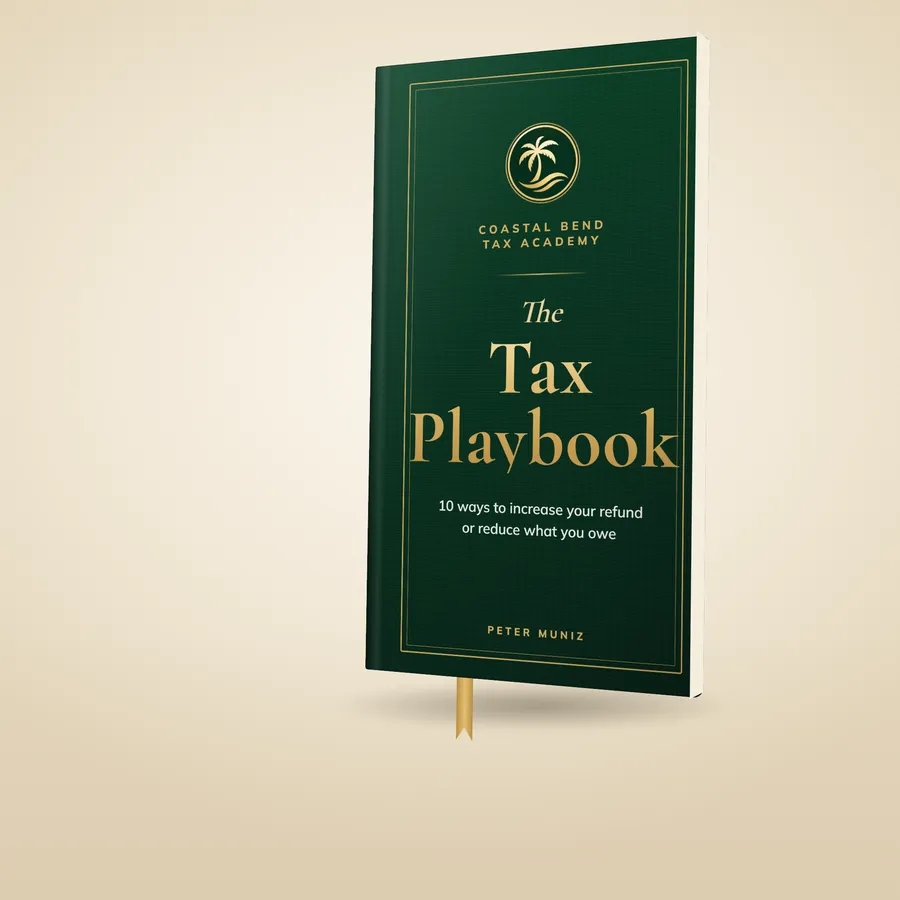
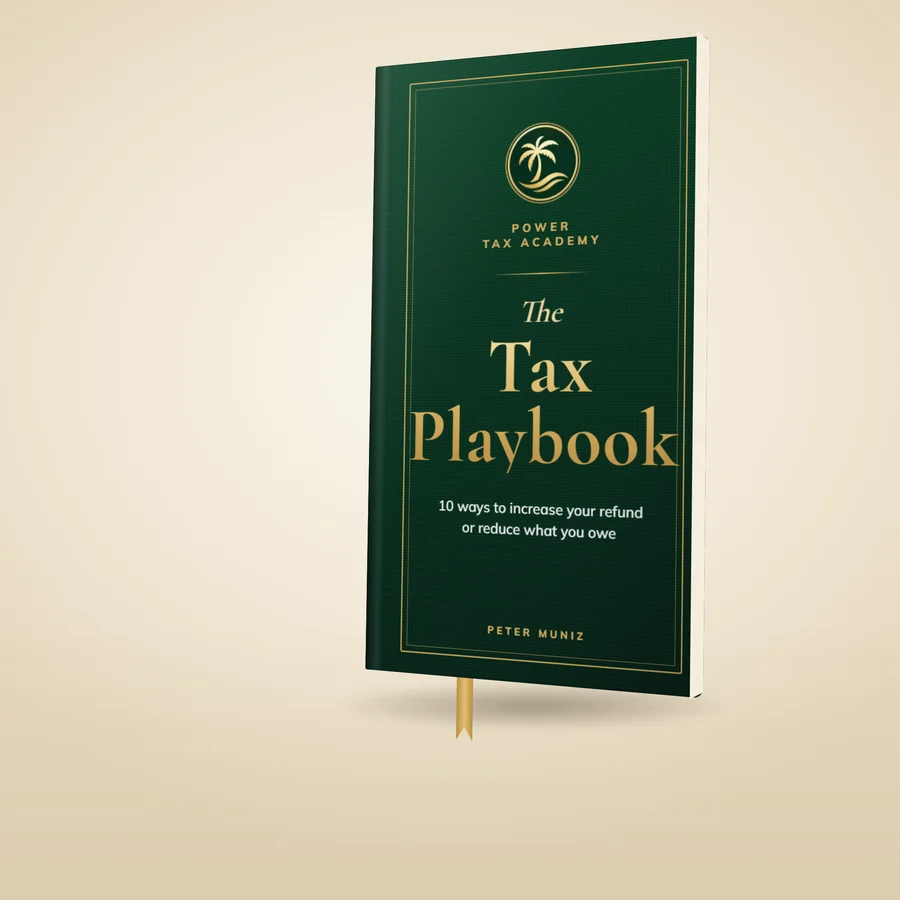
Power Tax Academy final pricing (Pete 11/13): 3 packages with pay-in-full or $150 deposit, $300 upgrades, preparer support ($600/mo subscribe, $90/case)

diff --git a/tax-academy/index.html b/tax-academy/index.html
@@ -3,16 +3,16 @@
 <head>
 <meta charset="UTF-8">
 <meta name="viewport" content="width=device-width, initial-scale=1, viewport-fit=cover">
-<title>Tax Academy &amp; Tax Playbooks | Coastal Bend Tax &amp; Financial</title>
-<meta name="description" content="Learn to do your own taxes the right way with the Tax Playbook, one-on-one training with Peter Muniz, or Tax Academy Platinum. Book a call to get started.">
+<title>Power Tax Academy: Tax Playbooks &amp; Coaching | Coastal Bend Tax &amp; Financial</title>
+<meta name="description" content="Power Tax Academy by Peter Muniz: Tax Playbook $399, Tax Playbook &amp; Me $699, VIP $999. $150 deposit option. Plus monthly and per-case support for tax preparers.">
 <meta name="robots" content="noindex, nofollow">
 <meta name="theme-color" content="#062E1C">
 <link rel="canonical" href="https://jzonkel1.github.io/cbtf-preview/tax-academy/">
 <meta property="og:type" content="website">
 <meta property="og:site_name" content="Coastal Bend Tax &amp; Financial">
 <meta property="og:url" content="https://jzonkel1.github.io/cbtf-preview/tax-academy/">
-<meta property="og:title" content="Tax Academy &amp; Tax Playbooks | Coastal Bend Tax &amp; Financial">
-<meta property="og:description" content="Learn to do your own taxes the right way with the Tax Playbook, one-on-one training with Peter Muniz, or Tax Academy Platinum. Book a call to get started.">
+<meta property="og:title" content="Power Tax Academy: Tax Playbooks &amp; Coaching | Coastal Bend Tax &amp; Financial">
+<meta property="og:description" content="Power Tax Academy by Peter Muniz: Tax Playbook $399, Tax Playbook &amp; Me $699, VIP $999. $150 deposit option. Plus monthly and per-case support for tax preparers.">
 <meta property="og:image" content="https://jzonkel1.github.io/cbtf-preview/img/og.jpg?v=2">
 <meta property="og:image:secure_url" content="https://jzonkel1.github.io/cbtf-preview/img/og.jpg?v=2">
 <meta property="og:image:width" content="1200">
@@ -56,34 +56,50 @@
   <picture><source media="(max-width:760px)" srcset="../img/hero-academy-m.webp"><img src="../img/hero-academy.webp" alt="Laptop, notepad and coffee on a desk" style="object-position:50% 50%" fetchpriority="high"></picture>
   <div class="wrap"><div class="fh-copy">
     <div class="crumbs"><a href="../">Home</a> &nbsp;/&nbsp; Tax Academy</div>
-    <span class="who-does direct">Provided directly</span><br><div class="kick left">Education &amp; Tax Academy</div>
+    <span class="who-does direct">Provided directly</span><br><div class="kick left">Power Tax Academy</div>
     <h1><span class="nw">Learn it.</span> <span class="nw">Apply it.</span> <span class="nw">Teach it.</span></h1>
-    <p class="lede">The Coastal Bend Tax Academy starts with your own taxes. We review your last three years, build a plan for the year ahead, and teach you how to do it yourself.</p>
-    <div class="ctas"><a class="btn btn-gold" href="../contact/"><svg viewBox="0 0 256 256" fill="currentColor"><path d="M208 32h-24v-8a8 8 0 0 0-16 0v8H88v-8a8 8 0 0 0-16 0v8H48a16 16 0 0 0-16 16v160a16 16 0 0 0 16 16h160a16 16 0 0 0 16-16V48a16 16 0 0 0-16-16Zm-38.34 85.66-48 48a8 8 0 0 1-11.32 0l-24-24a8 8 0 0 1 11.32-11.32L116 148.69l42.34-42.35a8 8 0 0 1 11.32 11.32ZM48 80V48h24v8a8 8 0 0 0 16 0v-8h80v8a8 8 0 0 0 16 0v-8h24v32Z"/></svg>Book a Free Consultation</a><a class="btn btn-line-light" href="tel:+13612886140"><svg viewBox="0 0 256 256" fill="currentColor"><path d="M231.88 175.08A56.26 56.26 0 0 1 176 224C96.6 224 32 159.4 32 80a56.26 56.26 0 0 1 48.92-55.88 16 16 0 0 1 16.62 9.52l21.12 47.15a16 16 0 0 1-1.3 15.09l-21.36 25.4a.94.94 0 0 0 0 .14c11.44 23.95 33.2 45.62 57.08 57.06l.14-.06 25-21.27a16.06 16.06 0 0 1 15.23-1.39l47.15 21.13a16 16 0 0 1 9.28 16.31Z"/></svg>Call <span class="nw">361-288-6140</span></a></div>
+    <p class="lede">Learn to handle your taxes the right way, at your own pace or with Pete coaching you. Three packages, starting at $399.</p>
+    <div class="ctas"><a class="btn btn-gold" href="#packages">See the Packages</a><a class="btn btn-line-light" href="../contact/?type=academy"><svg viewBox="0 0 256 256" fill="currentColor"><path d="M208 32h-24v-8a8 8 0 0 0-16 0v8H88v-8a8 8 0 0 0-16 0v8H48a16 16 0 0 0-16 16v160a16 16 0 0 0 16 16h160a16 16 0 0 0 16-16V48a16 16 0 0 0-16-16Zm-38.34 85.66-48 48a8 8 0 0 1-11.32 0l-24-24a8 8 0 0 1 11.32-11.32L116 148.69l42.34-42.35a8 8 0 0 1 11.32 11.32ZM48 80V48h24v8a8 8 0 0 0 16 0v-8h80v8a8 8 0 0 0 16 0v-8h24v32Z"/></svg>Book an Academy Call</a></div>
     <div class="trust"><span><svg viewBox="0 0 256 256" fill="currentColor"><path d="M128 24a104 104 0 1 0 104 104A104.11 104.11 0 0 0 128 24Zm45.66 85.66-56 56a8 8 0 0 1-11.32 0l-24-24a8 8 0 0 1 11.32-11.32L112 148.69l50.34-50.35a8 8 0 0 1 11.32 11.32Z"/></svg>20+ years in finance</span><span><svg viewBox="0 0 256 256" fill="currentColor"><path d="M128 24a104 104 0 1 0 104 104A104.11 104.11 0 0 0 128 24Zm45.66 85.66-56 56a8 8 0 0 1-11.32 0l-24-24a8 8 0 0 1 11.32-11.32L112 148.69l50.34-50.35a8 8 0 0 1 11.32 11.32Z"/></svg>Open 7 days</span><span><svg viewBox="0 0 256 256" fill="currentColor"><path d="M128 24a104 104 0 1 0 104 104A104.11 104.11 0 0 0 128 24Zm45.66 85.66-56 56a8 8 0 0 1-11.32 0l-24-24a8 8 0 0 1 11.32-11.32L112 148.69l50.34-50.35a8 8 0 0 1 11.32 11.32Z"/></svg>Se habla espa&ntilde;ol</span></div>
   </div></div>
 </section><section class="tstrip"><div class="wrap"><ul><li><svg viewBox="0 0 256 256" fill="currentColor" aria-hidden="true"><path fill="currentColor" d="M225.86 102.82c-3.77-3.94-7.67-8-9.14-11.57c-1.36-3.27-1.44-8.69-1.52-13.94c-.15-9.76-.31-20.82-8-28.51s-18.75-7.85-28.51-8c-5.25-.08-10.67-.16-13.94-1.52c-3.56-1.47-7.63-5.37-11.57-9.14C146.28 23.51 138.44 16 128 16s-18.27 7.51-25.18 14.14c-3.94 3.77-8 7.67-11.57 9.14c-3.25 1.36-8.69 1.44-13.94 1.52c-9.76.15-20.82.31-28.51 8s-7.8 18.75-8 28.51c-.08 5.25-.16 10.67-1.52 13.94c-1.47 3.56-5.37 7.63-9.14 11.57C23.51 109.72 16 117.56 16 128s7.51 18.27 14.14 25.18c3.77 3.94 7.67 8 9.14 11.57c1.36 3.27 1.44 8.69 1.52 13.94c.15 9.76.31 20.82 8 28.51s18.75 7.85 28.51 8c5.25.08 10.67.16 13.94 1.52c3.56 1.47 7.63 5.37 11.57 9.14c6.9 6.63 14.74 14.14 25.18 14.14s18.27-7.51 25.18-14.14c3.94-3.77 8-7.67 11.57-9.14c3.27-1.36 8.69-1.44 13.94-1.52c9.76-.15 20.82-.31 28.51-8s7.85-18.75 8-28.51c.08-5.25.16-10.67 1.52-13.94c1.47-3.56 5.37-7.63 9.14-11.57c6.63-6.9 14.14-14.74 14.14-25.18s-7.51-18.27-14.14-25.18m-52.2 6.84l-56 56a8 8 0 0 1-11.32 0l-24-24a8 8 0 0 1 11.32-11.32L112 148.69l50.34-50.35a8 8 0 0 1 11.32 11.32"/></svg><div>20+ years in finance<span>City, Port &amp; private sector</span></div></li><li><svg viewBox="0 0 256 256" fill="currentColor" aria-hidden="true"><path fill="currentColor" d="M176 207.24a119 119 0 0 0 16-7.73V240a8 8 0 0 1-16 0Zm11.76-88.43l-56-29.87a8 8 0 0 0-7.52 14.12L171 128l17-9.06Zm64-29.87l-120-64a8 8 0 0 0-7.52 0l-120 64a8 8 0 0 0 0 14.12L32 117.87v48.42a15.9 15.9 0 0 0 4.06 10.65C49.16 191.53 78.51 216 128 216a130 130 0 0 0 48-8.76v-76.57l-5-2.67l-43 22.93L43.83 106L25 96l103-54.93L231 96l-18.78 10h-.06L188 118.94a8 8 0 0 1 4 6.93v73.64a115.6 115.6 0 0 0 27.94-22.57a15.9 15.9 0 0 0 4.06-10.65v-48.42l27.76-14.81a8 8 0 0 0 0-14.12"/></svg><div>Master&rsquo;s in Accounting<span>Texas A&amp;M&ndash;Corpus Christi</span></div></li><li><svg viewBox="0 0 256 256" fill="currentColor" aria-hidden="true"><path fill="currentColor" d="M128 24a104 104 0 1 0 104 104A104.11 104.11 0 0 0 128 24m56 112h-56a8 8 0 0 1-8-8V72a8 8 0 0 1 16 0v48h48a8 8 0 0 1 0 16"/></svg><div>Open 7 days<span>10 AM to 7 PM</span></div></li><li><svg viewBox="0 0 256 256" fill="currentColor" aria-hidden="true"><path fill="currentColor" d="M160 129.89L175.06 160h-30.12l6.36-12.7ZM224 48v160a16 16 0 0 1-16 16H48a16 16 0 0 1-16-16V48a16 16 0 0 1 16-16h160a16 16 0 0 1 16 16m-16.84 140.42l-40-80a8 8 0 0 0-14.32 0l-13.18 26.38a62.3 62.3 0 0 1-23.61-10A79.6 79.6 0 0 0 135.6 80H152a8 8 0 0 0 0-16h-40v-8a8 8 0 0 0-16 0v8H56a8 8 0 0 0 0 16h63.48a63.73 63.73 0 0 1-15.3 34.05a66 66 0 0 1-9-13.61a8 8 0 0 0-14.32 7.12a81.8 81.8 0 0 0 11.4 17.15A63.6 63.6 0 0 1 56 136a8 8 0 0 0 0 16a79.56 79.56 0 0 0 48.11-16.13a78.3 78.3 0 0 0 28.18 13.66l-19.45 38.89a8 8 0 0 0 14.32 7.16l9.78-19.58h46.12l9.78 19.58a8 8 0 1 0 14.32-7.16"/></svg><div>Se habla espa&ntilde;ol<span>In person, phone or online</span></div></li></ul></div></section>
-<section><div class="wrap pb">
-  <div class="pb-photo"><picture><source media="(max-width:760px)" srcset="../img/playbook-cover-m.webp"><img src="../img/playbook-cover.webp" width="1000" height="1250" alt="The Tax Playbook by Peter Muniz, Coastal Bend Tax Academy" loading="lazy" decoding="async"></picture><span class="pb-tag">Find your financial purpose</span></div>
+<section id="packages"><div class="wrap">
+  <div class="sec-head c"><div class="kick">Power Tax Academy</div><h2>Pick how much help you want.</h2>
+    <p class="lead">Pay in full, or hold your spot with a $150 deposit that applies toward any package.</p></div>
+  <div class="pkg-grid"><article class="pkg" id="pkg-playbook"><div class="ic"><svg viewBox="0 0 256 256" fill="currentColor"><path d="M224 48h-64a40 40 0 0 0-32 16 40 40 0 0 0-32-16H32a16 16 0 0 0-16 16v128a16 16 0 0 0 16 16h64a24 24 0 0 1 24 24 8 8 0 0 0 16 0 24 24 0 0 1 24-24h64a16 16 0 0 0 16-16V64a16 16 0 0 0-16-16Zm0 144h-64a39.81 39.81 0 0 0-24 8V88a24 24 0 0 1 24-24h64Z"/></svg></div><h3>Tax Playbook</h3><div class="pkg-price">$399</div><ul class="pkg-list"><li><svg viewBox="0 0 256 256" fill="currentColor"><path d="M128 24a104 104 0 1 0 104 104A104.11 104.11 0 0 0 128 24Zm45.66 85.66-56 56a8 8 0 0 1-11.32 0l-24-24a8 8 0 0 1 11.32-11.32L112 148.69l50.34-50.35a8 8 0 0 1 11.32 11.32Z"/></svg>Book and training materials</li><li><svg viewBox="0 0 256 256" fill="currentColor"><path d="M128 24a104 104 0 1 0 104 104A104.11 104.11 0 0 0 128 24Zm45.66 85.66-56 56a8 8 0 0 1-11.32 0l-24-24a8 8 0 0 1 11.32-11.32L112 148.69l50.34-50.35a8 8 0 0 1 11.32 11.32Z"/></svg>Learn at your own pace</li><li class="no">No personal coaching</li></ul><div class="buy"><div class="opts" role="radiogroup"><label><input type="radio" name="oTaxPlaybook" value="0" checked data-name="Tax Playbook" data-amt="399.00" data-href="https://www.paypal.com/cgi-bin/webscr?business=petermuniz%40outlook.com&amp;item_name=Tax+Playbook&amp;currency_code=USD&amp;no_shipping=1&amp;return=https%3A%2F%2Fjzonkel1.github.io%2Fcbtf-preview%2Fthanks%2F%3Fpaid%3D1&amp;cmd=_xclick&amp;amount=399.00"><span><b>Pay in full</b></span><em>$399</em></label><label><input type="radio" name="oTaxPlaybook" value="1" data-name="Tax Playbook - $150 deposit" data-amt="150.00" data-href="https://www.paypal.com/cgi-bin/webscr?business=petermuniz%40outlook.com&amp;item_name=Tax+Playbook+-+%24150+deposit&amp;currency_code=USD&amp;no_shipping=1&amp;return=https%3A%2F%2Fjzonkel1.github.io%2Fcbtf-preview%2Fthanks%2F%3Fpaid%3D1&amp;cmd=_xclick&amp;amount=150.00"><span><b>$150 deposit</b><small>Applies toward your package. $249 remaining.</small></span><em>$150</em></label></div><div class="pp" data-name="Tax Playbook" data-amt="399.00" data-ok="../thanks/?paid=1"></div><a class="btn btn-gold pp-fallback" href="https://www.paypal.com/cgi-bin/webscr?business=petermuniz%40outlook.com&amp;item_name=Tax+Playbook&amp;currency_code=USD&amp;no_shipping=1&amp;return=https%3A%2F%2Fjzonkel1.github.io%2Fcbtf-preview%2Fthanks%2F%3Fpaid%3D1&amp;cmd=_xclick&amp;amount=399.00" rel="nofollow">Pay with PayPal</a><small class="pp-note">Secure checkout with PayPal or a debit/credit card.</small></div></article><article class="pkg" id="pkg-playbook-me"><div class="ic"><svg viewBox="0 0 256 256" fill="currentColor"><path d="M230.92 212c-15.23-26.33-38.7-45.21-66.09-54.16a72 72 0 1 0-73.66 0c-27.39 8.94-50.86 27.82-66.09 54.16a8 8 0 1 0 13.85 8c18.84-32.56 52.14-52 89.07-52s70.23 19.44 89.07 52a8 8 0 1 0 13.85-8Z"/></svg></div><h3>Tax Playbook &amp; Me</h3><div class="pkg-price">$699</div><ul class="pkg-list"><li><svg viewBox="0 0 256 256" fill="currentColor"><path d="M128 24a104 104 0 1 0 104 104A104.11 104.11 0 0 0 128 24Zm45.66 85.66-56 56a8 8 0 0 1-11.32 0l-24-24a8 8 0 0 1 11.32-11.32L112 148.69l50.34-50.35a8 8 0 0 1 11.32 11.32Z"/></svg>Everything in the Tax Playbook</li><li><svg viewBox="0 0 256 256" fill="currentColor"><path d="M128 24a104 104 0 1 0 104 104A104.11 104.11 0 0 0 128 24Zm45.66 85.66-56 56a8 8 0 0 1-11.32 0l-24-24a8 8 0 0 1 11.32-11.32L112 148.69l50.34-50.35a8 8 0 0 1 11.32 11.32Z"/></svg>Limited personal coaching</li><li class="no">No priority scheduling</li></ul><div class="buy"><div class="opts" role="radiogroup"><label><input type="radio" name="oTaxPlaybookampMe" value="0" checked data-name="Tax Playbook &amp; Me" data-amt="699.00" data-href="https://www.paypal.com/cgi-bin/webscr?business=petermuniz%40outlook.com&amp;item_name=Tax+Playbook+%26+Me&amp;currency_code=USD&amp;no_shipping=1&amp;return=https%3A%2F%2Fjzonkel1.github.io%2Fcbtf-preview%2Fthanks%2F%3Fpaid%3D1&amp;cmd=_xclick&amp;amount=699.00"><span><b>Pay in full</b></span><em>$699</em></label><label><input type="radio" name="oTaxPlaybookampMe" value="1" data-name="Tax Playbook &amp; Me - $150 deposit" data-amt="150.00" data-href="https://www.paypal.com/cgi-bin/webscr?business=petermuniz%40outlook.com&amp;item_name=Tax+Playbook+%26+Me+-+%24150+deposit&amp;currency_code=USD&amp;no_shipping=1&amp;return=https%3A%2F%2Fjzonkel1.github.io%2Fcbtf-preview%2Fthanks%2F%3Fpaid%3D1&amp;cmd=_xclick&amp;amount=150.00"><span><b>$150 deposit</b><small>Applies toward your package. $549 remaining.</small></span><em>$150</em></label></div><div class="pp" data-name="Tax Playbook &amp; Me" data-amt="699.00" data-ok="../thanks/?paid=1"></div><a class="btn btn-gold pp-fallback" href="https://www.paypal.com/cgi-bin/webscr?business=petermuniz%40outlook.com&amp;item_name=Tax+Playbook+%26+Me&amp;currency_code=USD&amp;no_shipping=1&amp;return=https%3A%2F%2Fjzonkel1.github.io%2Fcbtf-preview%2Fthanks%2F%3Fpaid%3D1&amp;cmd=_xclick&amp;amount=699.00" rel="nofollow">Pay with PayPal</a><small class="pp-note">Secure checkout with PayPal or a debit/credit card.</small></div></article><article class="pkg feat" id="pkg-vip"><span class="pkg-flag">Most coaching</span><div class="ic"><svg viewBox="0 0 256 256" fill="currentColor"><path d="M239.2 97.29a16 16 0 0 0-13.81-11L166 81.17l-23.28-55.36a15.95 15.95 0 0 0-29.44 0L90.07 81.17l-59.46 5.15a16 16 0 0 0-9.11 28.06l45.11 39.42-13.52 58.54a16 16 0 0 0 23.84 17.34l51-31 51.11 31a16 16 0 0 0 23.84-17.34l-13.51-58.6 45.1-39.36a16 16 0 0 0 4.73-17.09Z"/></svg></div><h3>Power Tax Academy VIP</h3><div class="pkg-price">$999</div><ul class="pkg-list"><li><svg viewBox="0 0 256 256" fill="currentColor"><path d="M128 24a104 104 0 1 0 104 104A104.11 104.11 0 0 0 128 24Zm45.66 85.66-56 56a8 8 0 0 1-11.32 0l-24-24a8 8 0 0 1 11.32-11.32L112 148.69l50.34-50.35a8 8 0 0 1 11.32 11.32Z"/></svg>Everything in the Tax Playbook and Tax Playbook &amp; Me</li><li><svg viewBox="0 0 256 256" fill="currentColor"><path d="M128 24a104 104 0 1 0 104 104A104.11 104.11 0 0 0 128 24Zm45.66 85.66-56 56a8 8 0 0 1-11.32 0l-24-24a8 8 0 0 1 11.32-11.32L112 148.69l50.34-50.35a8 8 0 0 1 11.32 11.32Z"/></svg>Unlimited scheduled coaching for 12 months</li><li><svg viewBox="0 0 256 256" fill="currentColor"><path d="M128 24a104 104 0 1 0 104 104A104.11 104.11 0 0 0 128 24Zm45.66 85.66-56 56a8 8 0 0 1-11.32 0l-24-24a8 8 0 0 1 11.32-11.32L112 148.69l50.34-50.35a8 8 0 0 1 11.32 11.32Z"/></svg>Priority scheduling and personal guidance</li></ul><div class="buy"><div class="opts" role="radiogroup"><label><input type="radio" name="oPowerTaxAcademyVIP" value="0" checked data-name="Power Tax Academy VIP" data-amt="999.00" data-href="https://www.paypal.com/cgi-bin/webscr?business=petermuniz%40outlook.com&amp;item_name=Power+Tax+Academy+VIP&amp;currency_code=USD&amp;no_shipping=1&amp;return=https%3A%2F%2Fjzonkel1.github.io%2Fcbtf-preview%2Fthanks%2F%3Fpaid%3D1&amp;cmd=_xclick&amp;amount=999.00"><span><b>Pay in full</b></span><em>$999</em></label><label><input type="radio" name="oPowerTaxAcademyVIP" value="1" data-name="Power Tax Academy VIP - $150 deposit" data-amt="150.00" data-href="https://www.paypal.com/cgi-bin/webscr?business=petermuniz%40outlook.com&amp;item_name=Power+Tax+Academy+VIP+-+%24150+deposit&amp;currency_code=USD&amp;no_shipping=1&amp;return=https%3A%2F%2Fjzonkel1.github.io%2Fcbtf-preview%2Fthanks%2F%3Fpaid%3D1&amp;cmd=_xclick&amp;amount=150.00"><span><b>$150 deposit</b><small>Applies toward your package. $849 remaining.</small></span><em>$150</em></label></div><div class="pp" data-name="Power Tax Academy VIP" data-amt="999.00" data-ok="../thanks/?paid=1"></div><a class="btn btn-gold pp-fallback" href="https://www.paypal.com/cgi-bin/webscr?business=petermuniz%40outlook.com&amp;item_name=Power+Tax+Academy+VIP&amp;currency_code=USD&amp;no_shipping=1&amp;return=https%3A%2F%2Fjzonkel1.github.io%2Fcbtf-preview%2Fthanks%2F%3Fpaid%3D1&amp;cmd=_xclick&amp;amount=999.00" rel="nofollow">Pay with PayPal</a><small class="pp-note">Secure checkout with PayPal or a debit/credit card.</small></div></article></div>
+</div></section>
+
+<section class="alt"><div class="wrap pb">
+  <div class="pb-photo"><picture><source media="(max-width:760px)" srcset="../img/playbook-cover-m.webp"><img src="../img/playbook-cover.webp" width="1000" height="1250" alt="The Tax Playbook by Peter Muniz, Power Tax Academy" loading="lazy" decoding="async"></picture><span class="pb-tag">Find your financial purpose</span></div>
   <div class="pb-copy">
-    <div class="kick left">The programs</div>
-    <h2>Pick how much help you want.</h2>
-    <div class="pb-list">
-      <div class="pb-item has-buy"><div class="ic"><svg viewBox="0 0 256 256" fill="currentColor"><path d="M224 48h-64a40 40 0 0 0-32 16 40 40 0 0 0-32-16H32a16 16 0 0 0-16 16v128a16 16 0 0 0 16 16h64a24 24 0 0 1 24 24 8 8 0 0 0 16 0 24 24 0 0 1 24-24h64a16 16 0 0 0 16-16V64a16 16 0 0 0-16-16Zm0 144h-64a39.81 39.81 0 0 0-24 8V88a24 24 0 0 1 24-24h64Z"/></svg></div><div><b>Tax Playbook</b><span>Your personalized playbook with step-by-step instructions, real strategies and worksheets.</span><div class="buy"><span class="price">$1,850</span><div class="pp" data-name="Tax Playbook" data-amt="1850.00" data-ok="../thanks/?paid=1"></div><a class="btn btn-gold pp-fallback" href="https://www.paypal.com/cgi-bin/webscr?cmd=_xclick&amp;business=petermuniz%40outlook.com&amp;item_name=Tax+Playbook&amp;amount=1850.00&amp;currency_code=USD&amp;no_shipping=1&amp;return=https%3A%2F%2Fjzonkel1.github.io%2Fcbtf-preview%2Fthanks%2F%3Fpaid%3D1" rel="nofollow">Buy with PayPal</a><small class="pp-note">Secure checkout with PayPal or a debit/credit card.</small></div></div></div>
-      <div class="pb-item has-buy"><div class="ic"><svg viewBox="0 0 256 256" fill="currentColor"><path d="M230.92 212c-15.23-26.33-38.7-45.21-66.09-54.16a72 72 0 1 0-73.66 0c-27.39 8.94-50.86 27.82-66.09 54.16a8 8 0 1 0 13.85 8c18.84-32.56 52.14-52 89.07-52s70.23 19.44 89.07 52a8 8 0 1 0 13.85-8Z"/></svg></div><div><b>Tax Playbook &amp; Me</b><span>Everything in the playbook, plus one-on-one training with Pete and ongoing support.</span><div class="buy"><span class="price">$2,750</span><div class="pp" data-name="Tax Playbook &amp; Me" data-amt="2750.00" data-ok="../thanks/?paid=1"></div><a class="btn btn-gold pp-fallback" href="https://www.paypal.com/cgi-bin/webscr?cmd=_xclick&amp;business=petermuniz%40outlook.com&amp;item_name=Tax+Playbook+%26+Me&amp;amount=2750.00&amp;currency_code=USD&amp;no_shipping=1&amp;return=https%3A%2F%2Fjzonkel1.github.io%2Fcbtf-preview%2Fthanks%2F%3Fpaid%3D1" rel="nofollow">Buy with PayPal</a><small class="pp-note">Secure checkout with PayPal or a debit/credit card.</small></div></div></div>
-      <div class="pb-item"><div class="ic"><svg viewBox="0 0 256 256" fill="currentColor"><path d="M239.2 97.29a16 16 0 0 0-13.81-11L166 81.17l-23.28-55.36a15.95 15.95 0 0 0-29.44 0L90.07 81.17l-59.46 5.15a16 16 0 0 0-9.11 28.06l45.11 39.42-13.52 58.54a16 16 0 0 0 23.84 17.34l51-31 51.11 31a16 16 0 0 0 23.84-17.34l-13.51-58.6 45.1-39.36a16 16 0 0 0 4.73-17.09Z"/></svg></div><div><b>Tax Academy Platinum</b><span>The full program, with deeper training and support. Ask Pete for details.</span></div></div>
-    </div>
-    <a class="btn btn-green" href="../contact/?type=academy"><svg viewBox="0 0 256 256" fill="currentColor"><path d="M208 32h-24v-8a8 8 0 0 0-16 0v8H88v-8a8 8 0 0 0-16 0v8H48a16 16 0 0 0-16 16v160a16 16 0 0 0 16 16h160a16 16 0 0 0 16-16V48a16 16 0 0 0-16-16Zm-38.34 85.66-48 48a8 8 0 0 1-11.32 0l-24-24a8 8 0 0 1 11.32-11.32L116 148.69l42.34-42.35a8 8 0 0 1 11.32 11.32ZM48 80V48h24v8a8 8 0 0 0 16 0v-8h80v8a8 8 0 0 0 16 0v-8h24v32Z"/></svg>Book an Academy Call</a>
+    <div class="kick left">Upgrades</div>
+    <h2>Already enrolled? Move up.</h2>
+    <p class="lead">Want more coaching? Upgrade any time and pay only the difference: $300 for each step up.</p>
+    <div class="pkg upg"><div class="buy"><div class="opts" role="radiogroup"><label><input type="radio" name="oUpgradeTaxPlaybooktoTaxP" value="0" checked data-name="Upgrade: Tax Playbook to Tax Playbook &amp; Me" data-amt="300.00" data-href="https://www.paypal.com/cgi-bin/webscr?business=petermuniz%40outlook.com&amp;item_name=Upgrade%3A+Tax+Playbook+to+Tax+Playbook+%26+Me&amp;currency_code=USD&amp;no_shipping=1&amp;return=https%3A%2F%2Fjzonkel1.github.io%2Fcbtf-preview%2Fthanks%2F%3Fpaid%3D1&amp;cmd=_xclick&amp;amount=300.00"><span><b>Tax Playbook to Tax Playbook &amp; Me</b><small>$399 to $699</small></span><em>$300</em></label><label><input type="radio" name="oUpgradeTaxPlaybooktoTaxP" value="1" data-name="Upgrade: Tax Playbook &amp; Me to Power Tax Academy VIP" data-amt="300.00" data-href="https://www.paypal.com/cgi-bin/webscr?business=petermuniz%40outlook.com&amp;item_name=Upgrade%3A+Tax+Playbook+%26+Me+to+Power+Tax+Academy+VIP&amp;currency_code=USD&amp;no_shipping=1&amp;return=https%3A%2F%2Fjzonkel1.github.io%2Fcbtf-preview%2Fthanks%2F%3Fpaid%3D1&amp;cmd=_xclick&amp;amount=300.00"><span><b>Tax Playbook &amp; Me to Power Tax Academy VIP</b><small>$699 to $999</small></span><em>$300</em></label></div><div class="pp" data-name="Upgrade: Tax Playbook to Tax Playbook &amp; Me" data-amt="300.00" data-ok="../thanks/?paid=1"></div><a class="btn btn-gold pp-fallback" href="https://www.paypal.com/cgi-bin/webscr?business=petermuniz%40outlook.com&amp;item_name=Upgrade%3A+Tax+Playbook+to+Tax+Playbook+%26+Me&amp;currency_code=USD&amp;no_shipping=1&amp;return=https%3A%2F%2Fjzonkel1.github.io%2Fcbtf-preview%2Fthanks%2F%3Fpaid%3D1&amp;cmd=_xclick&amp;amount=300.00" rel="nofollow">Pay with PayPal</a><small class="pp-note">Secure checkout with PayPal or a debit/credit card.</small></div></div>
+  </div>
+</div></section>
+
+<section id="support"><div class="wrap">
+  <div class="sec-head c"><div class="kick">For tax preparers</div><h2>Support when a return gets tricky.</h2>
+    <p class="lead">Are you a tax preparer? Pete helps with your customers&rsquo; tax returns, month to month or one case at a time.</p></div>
+  <div class="pkg-grid two">
+    <article class="pkg"><div class="ic"><svg viewBox="0 0 256 256" fill="currentColor" aria-hidden="true"><path fill="currentColor" d="M152 112a8 8 0 0 1-8 8h-32a8 8 0 0 1 0-16h32a8 8 0 0 1 8 8m80-40v128a16 16 0 0 1-16 16H40a16 16 0 0 1-16-16V72a16 16 0 0 1 16-16h40v-8a24 24 0 0 1 24-24h48a24 24 0 0 1 24 24v8h40a16 16 0 0 1 16 16M96 56h64v-8a8 8 0 0 0-8-8h-48a8 8 0 0 0-8 8Zm120 57.61V72H40v41.61A184 184 0 0 0 128 136a184 184 0 0 0 88-22.39"/></svg></div><h3>Monthly Technical Support</h3><div class="pkg-price">$600<small>/month</small></div>
+      <ul class="pkg-list"><li><svg viewBox="0 0 256 256" fill="currentColor"><path d="M128 24a104 104 0 1 0 104 104A104.11 104.11 0 0 0 128 24Zm45.66 85.66-56 56a8 8 0 0 1-11.32 0l-24-24a8 8 0 0 1 11.32-11.32L112 148.69l50.34-50.35a8 8 0 0 1 11.32 11.32Z"/></svg>Pete helps with your customers&rsquo; tax returns</li><li><svg viewBox="0 0 256 256" fill="currentColor"><path d="M128 24a104 104 0 1 0 104 104A104.11 104.11 0 0 0 128 24Zm45.66 85.66-56 56a8 8 0 0 1-11.32 0l-24-24a8 8 0 0 1 11.32-11.32L112 148.69l50.34-50.35a8 8 0 0 1 11.32 11.32Z"/></svg>Ongoing monthly assistance</li></ul>
+      <div class="buy"><a class="btn btn-gold" href="https://www.paypal.com/cgi-bin/webscr?business=petermuniz%40outlook.com&amp;item_name=Monthly+Technical+Support&amp;currency_code=USD&amp;no_shipping=1&amp;return=https%3A%2F%2Fjzonkel1.github.io%2Fcbtf-preview%2Fthanks%2F%3Fpaid%3D1&amp;cmd=_xclick-subscriptions&amp;a3=600.00&amp;p3=1&amp;t3=M&amp;src=1" rel="nofollow">Subscribe with PayPal</a><small class="pp-note">Billed $600 a month through PayPal.</small></div></article>
+    <article class="pkg"><div class="ic"><svg viewBox="0 0 256 256" fill="currentColor" aria-hidden="true"><path fill="currentColor" d="M216 40H40a16 16 0 0 0-16 16v152a8 8 0 0 0 11.58 7.15L64 200.94l28.42 14.21a8 8 0 0 0 7.16 0L128 200.94l28.42 14.21a8 8 0 0 0 7.16 0L192 200.94l28.42 14.21A8 8 0 0 0 232 208V56a16 16 0 0 0-16-16m-40 104H80a8 8 0 0 1 0-16h96a8 8 0 0 1 0 16m0-32H80a8 8 0 0 1 0-16h96a8 8 0 0 1 0 16"/></svg></div><h3>Individual Case Support</h3><div class="pkg-price">$90<small>/case</small></div>
+      <ul class="pkg-list"><li><svg viewBox="0 0 256 256" fill="currentColor"><path d="M128 24a104 104 0 1 0 104 104A104.11 104.11 0 0 0 128 24Zm45.66 85.66-56 56a8 8 0 0 1-11.32 0l-24-24a8 8 0 0 1 11.32-11.32L112 148.69l50.34-50.35a8 8 0 0 1 11.32 11.32Z"/></svg>Help with one customer&rsquo;s tax return</li><li><svg viewBox="0 0 256 256" fill="currentColor"><path d="M128 24a104 104 0 1 0 104 104A104.11 104.11 0 0 0 128 24Zm45.66 85.66-56 56a8 8 0 0 1-11.32 0l-24-24a8 8 0 0 1 11.32-11.32L112 148.69l50.34-50.35a8 8 0 0 1 11.32 11.32Z"/></svg>No monthly commitment</li></ul>
+      <div class="buy"><div class="pp" data-name="Individual Case Support (1 case)" data-amt="90.00" data-ok="../thanks/?paid=1"></div><a class="btn btn-gold pp-fallback" href="https://www.paypal.com/cgi-bin/webscr?business=petermuniz%40outlook.com&amp;item_name=Individual+Case+Support+%281+case%29&amp;currency_code=USD&amp;no_shipping=1&amp;return=https%3A%2F%2Fjzonkel1.github.io%2Fcbtf-preview%2Fthanks%2F%3Fpaid%3D1&amp;cmd=_xclick&amp;amount=90.00" rel="nofollow">Pay with PayPal</a><small class="pp-note">Secure checkout with PayPal or a debit/credit card.</small></div></article>
   </div>
 </div></section>
 
 <section class="alt"><div class="wrap">
-  <div class="sec-head c"><div class="kick">How it works</div><h2>Your taxes become the lesson.</h2></div>
+  <div class="sec-head c"><div class="kick">How it works</div><h2>Three simple steps.</h2></div>
   <div class="steps">
-    <div class="step"><h3>Review</h3><p>We pull your IRS records and look at your last three years of returns.</p></div>
-    <div class="step"><h3>Plan</h3><p>You get the specific ways to do better next year, written for your situation.</p></div>
-    <div class="step"><h3>Learn</h3><p>Do it yourself with the playbook, or work through it with Pete one on one.</p></div>
+    <div class="step"><h3>Choose</h3><p>Pick the package that fits how much help you want.</p></div>
+    <div class="step"><h3>Pay</h3><p>Pay in full, or start with a $150 deposit that applies toward your package.</p></div>
+    <div class="step"><h3>Learn</h3><p>Work through the playbook at your own pace, with coaching from Pete if your package includes it.</p></div>
   </div>
+  <p class="c" style="margin-top:34px">Questions first? <a href="../contact/?type=academy"><b>Book an academy call</b></a> or call <a href="tel:+13612886140"><b><span class="nw">361-288-6140</span></b></a>.</p>
 </div></section>
 
 <section><div class="wrap">
@@ -227,14 +243,18 @@ document.querySelectorAll('.qw').forEach(f => {
 
 (() => {
   const els = [...document.querySelectorAll('.pp[data-amt]')]; if (!els.length) return;
+  document.querySelectorAll('.opts input').forEach(r => r.addEventListener('change', () => {
+    const box = r.closest('.buy'); box.querySelector('.pp-fallback').href = r.dataset.href;
+  }));
+  const pick = el => { const r = el.closest('.buy').querySelector('.opts input:checked'); return r ? r.dataset : el.dataset; };
   const load = () => {
     const s = document.createElement('script');
     s.src = 'https://www.paypal.com/sdk/js?client-id=BAA6P3uvcIh2B1DP-7oNN74NZr8NTycCrMdu5L9TuTEQL7scwtlZfbx8uaRy5oNspanAAQS7pkOBjTNnbg&currency=USD&intent=capture&components=buttons&disable-funding=paylater,credit';
     s.onload = () => els.forEach(el => {
       const box = el.closest('.buy');
       const b = paypal.Buttons({
-        style: {layout: 'horizontal', color: 'gold', shape: 'rect', label: 'buynow', height: 48, tagline: false},
-        createOrder: (d, a) => a.order.create({purchase_units: [{description: el.dataset.name, amount: {currency_code: 'USD', value: el.dataset.amt}}], application_context: {shipping_preference: 'NO_SHIPPING', brand_name: 'Coastal Bend Tax & Financial'}}),
+        style: {layout: 'horizontal', color: 'gold', shape: 'rect', label: 'pay', height: 48, tagline: false},
+        createOrder: (d, a) => { const o = pick(el); return a.order.create({purchase_units: [{description: o.name, amount: {currency_code: 'USD', value: o.amt}}], application_context: {shipping_preference: 'NO_SHIPPING', brand_name: 'Coastal Bend Tax & Financial'}}); },
         onApprove: (d, a) => a.order.capture().then(() => { location.href = el.dataset.ok; }),
         onError: () => box.classList.add('pp-err')
       });

diff --git a/marketplace/index.html b/marketplace/index.html
@@ -66,8 +66,9 @@
 <section><div class="wrap">
   <div class="sec-head"><div class="kick left">Products</div><h2>From our shelf.</h2></div>
   <div class="ph-grid">
-    <div class="prod"><span class="tag-soon">Available now</span><div class="ic"><svg viewBox="0 0 256 256" fill="currentColor"><path d="M224 48h-64a40 40 0 0 0-32 16 40 40 0 0 0-32-16H32a16 16 0 0 0-16 16v128a16 16 0 0 0 16 16h64a24 24 0 0 1 24 24 8 8 0 0 0 16 0 24 24 0 0 1 24-24h64a16 16 0 0 0 16-16V64a16 16 0 0 0-16-16Zm0 144h-64a39.81 39.81 0 0 0-24 8V88a24 24 0 0 1 24-24h64Z"/></svg></div><h3>Tax Playbook</h3><p>Your personalized playbook with step-by-step instructions, real strategies and worksheets.</p><div class="buy"><span class="price">$1,850</span><div class="pp" data-name="Tax Playbook" data-amt="1850.00" data-ok="../thanks/?paid=1"></div><a class="btn btn-gold pp-fallback" href="https://www.paypal.com/cgi-bin/webscr?cmd=_xclick&amp;business=petermuniz%40outlook.com&amp;item_name=Tax+Playbook&amp;amount=1850.00&amp;currency_code=USD&amp;no_shipping=1&amp;return=https%3A%2F%2Fjzonkel1.github.io%2Fcbtf-preview%2Fthanks%2F%3Fpaid%3D1" rel="nofollow">Buy with PayPal</a><small class="pp-note">Secure checkout with PayPal or a debit/credit card.</small></div><a class="ask" href="../contact/?type=academy">Questions first? Book a call</a></div>
-    <div class="prod"><span class="tag-soon">Available now</span><div class="ic"><svg viewBox="0 0 256 256" fill="currentColor"><path d="M230.92 212c-15.23-26.33-38.7-45.21-66.09-54.16a72 72 0 1 0-73.66 0c-27.39 8.94-50.86 27.82-66.09 54.16a8 8 0 1 0 13.85 8c18.84-32.56 52.14-52 89.07-52s70.23 19.44 89.07 52a8 8 0 1 0 13.85-8Z"/></svg></div><h3>Tax Playbook &amp; Me</h3><p>Everything in the playbook, plus one-on-one training with Pete and ongoing support.</p><div class="buy"><span class="price">$2,750</span><div class="pp" data-name="Tax Playbook &amp; Me" data-amt="2750.00" data-ok="../thanks/?paid=1"></div><a class="btn btn-gold pp-fallback" href="https://www.paypal.com/cgi-bin/webscr?cmd=_xclick&amp;business=petermuniz%40outlook.com&amp;item_name=Tax+Playbook+%26+Me&amp;amount=2750.00&amp;currency_code=USD&amp;no_shipping=1&amp;return=https%3A%2F%2Fjzonkel1.github.io%2Fcbtf-preview%2Fthanks%2F%3Fpaid%3D1" rel="nofollow">Buy with PayPal</a><small class="pp-note">Secure checkout with PayPal or a debit/credit card.</small></div><a class="ask" href="../contact/?type=academy">Questions first? Book a call</a></div>
+    <div class="prod"><span class="tag-soon">Power Tax Academy</span><div class="ic"><svg viewBox="0 0 256 256" fill="currentColor"><path d="M224 48h-64a40 40 0 0 0-32 16 40 40 0 0 0-32-16H32a16 16 0 0 0-16 16v128a16 16 0 0 0 16 16h64a24 24 0 0 1 24 24 8 8 0 0 0 16 0 24 24 0 0 1 24-24h64a16 16 0 0 0 16-16V64a16 16 0 0 0-16-16Zm0 144h-64a39.81 39.81 0 0 0-24 8V88a24 24 0 0 1 24-24h64Z"/></svg></div><h3>Tax Playbook</h3><div class="pkg-price">$399</div><p>Book and training materials. Learn at your own pace.</p><a class="btn btn-green" href="../tax-academy/#pkg-playbook">Choose This Package</a></div>
+    <div class="prod"><span class="tag-soon">Power Tax Academy</span><div class="ic"><svg viewBox="0 0 256 256" fill="currentColor"><path d="M230.92 212c-15.23-26.33-38.7-45.21-66.09-54.16a72 72 0 1 0-73.66 0c-27.39 8.94-50.86 27.82-66.09 54.16a8 8 0 1 0 13.85 8c18.84-32.56 52.14-52 89.07-52s70.23 19.44 89.07 52a8 8 0 1 0 13.85-8Z"/></svg></div><h3>Tax Playbook &amp; Me</h3><div class="pkg-price">$699</div><p>Everything in the Tax Playbook, plus limited personal coaching.</p><a class="btn btn-green" href="../tax-academy/#pkg-playbook-me">Choose This Package</a></div>
+    <div class="prod"><span class="tag-soon">Power Tax Academy</span><div class="ic"><svg viewBox="0 0 256 256" fill="currentColor"><path d="M239.2 97.29a16 16 0 0 0-13.81-11L166 81.17l-23.28-55.36a15.95 15.95 0 0 0-29.44 0L90.07 81.17l-59.46 5.15a16 16 0 0 0-9.11 28.06l45.11 39.42-13.52 58.54a16 16 0 0 0 23.84 17.34l51-31 51.11 31a16 16 0 0 0 23.84-17.34l-13.51-58.6 45.1-39.36a16 16 0 0 0 4.73-17.09Z"/></svg></div><h3>Power Tax Academy VIP</h3><div class="pkg-price">$999</div><p>Unlimited scheduled coaching for 12 months, with priority scheduling.</p><a class="btn btn-green" href="../tax-academy/#pkg-vip">Choose This Package</a></div>
     <div class="prod open"><span class="tag-soon">Coming soon</span><div class="ic"><svg viewBox="0 0 256 256" fill="currentColor"><path d="M224 128a8 8 0 0 1-8 8h-80v80a8 8 0 0 1-16 0v-80H40a8 8 0 0 1 0-16h80V40a8 8 0 0 1 16 0v80h80a8 8 0 0 1 8 8Z"/></svg></div><h3>Your product here</h3><p>New products from Coastal Bend Tax &amp; Financial and our partners are on the way.</p><a class="btn btn-line" href="../contact/?type=list">Feature Your Product</a></div>
   </div>
 </div></section>
@@ -217,29 +218,6 @@ document.querySelectorAll('.qw').forEach(f => {
   if (t && map[t] && f.dataset.prefill !== 'off') { const b = [...f.querySelectorAll('.qw-opt[data-field=need]')].find(x => x.dataset.value === lab[map[t]]); if (b) { b.classList.add('sel'); f.elements['need'].value = b.dataset.value; if (t === 'list') f.elements['message'].value = 'I would like to list my business in the Marketplace.'; if (t === 'review') f.elements['message'].value = 'Interested in the $79 Bookkeeping Review.'; if (t === 'mentorship') f.elements['message'].value = 'Interested in mentorship or internships.'; show(2); } }
   show(cur);
 });
-
-(() => {
-  const els = [...document.querySelectorAll('.pp[data-amt]')]; if (!els.length) return;
-  const load = () => {
-    const s = document.createElement('script');
-    s.src = 'https://www.paypal.com/sdk/js?client-id=BAA6P3uvcIh2B1DP-7oNN74NZr8NTycCrMdu5L9TuTEQL7scwtlZfbx8uaRy5oNspanAAQS7pkOBjTNnbg&currency=USD&intent=capture&components=buttons&disable-funding=paylater,credit';
-    s.onload = () => els.forEach(el => {
-      const box = el.closest('.buy');
-      const b = paypal.Buttons({
-        style: {layout: 'horizontal', color: 'gold', shape: 'rect', label: 'buynow', height: 48, tagline: false},
-        createOrder: (d, a) => a.order.create({purchase_units: [{description: el.dataset.name, amount: {currency_code: 'USD', value: el.dataset.amt}}], application_context: {shipping_preference: 'NO_SHIPPING', brand_name: 'Coastal Bend Tax & Financial'}}),
-        onApprove: (d, a) => a.order.capture().then(() => { location.href = el.dataset.ok; }),
-        onError: () => box.classList.add('pp-err')
-      });
-      if (b.isEligible()) b.render(el).then(() => box.classList.add('pp-on')).catch(() => {});
-    });
-    document.head.appendChild(s);
-  };
-  if ('IntersectionObserver' in window) {
-    const io = new IntersectionObserver(es => { if (es.some(e => e.isIntersecting)) { io.disconnect(); load(); } }, {rootMargin: '600px'});
-    els.forEach(e => io.observe(e));
-  } else load();
-})();
 </script>
 </body>
 </html>

diff --git a/index.html b/index.html
@@ -108,17 +108,17 @@
 </div></section>
 
 <section id="academy"><div class="wrap pb">
-  <div class="pb-photo"><picture><source media="(max-width:760px)" srcset="img/playbook-cover-m.webp"><img src="img/playbook-cover.webp" width="1000" height="1250" alt="The Tax Playbook by Peter Muniz, Coastal Bend Tax Academy" loading="lazy" decoding="async"></picture><span class="pb-tag">Find your financial purpose</span></div>
+  <div class="pb-photo"><picture><source media="(max-width:760px)" srcset="img/playbook-cover-m.webp"><img src="img/playbook-cover.webp" width="1000" height="1250" alt="The Tax Playbook by Peter Muniz, Power Tax Academy" loading="lazy" decoding="async"></picture><span class="pb-tag">Find your financial purpose</span></div>
   <div class="pb-copy">
-    <div class="kick left">Education &amp; Tax Academy</div>
+    <div class="kick left">Power Tax Academy</div>
     <h2><span class="nw">Learn it. Apply it.</span> <span class="nw">Teach it.</span></h2>
-    <p class="lead">The Coastal Bend Tax Academy starts with your own taxes. We review your last three years, build a plan for the year ahead, and teach you how to do it yourself.</p>
+    <p class="lead">Learn to handle your taxes the right way, at your own pace or with Pete coaching you. Pay in full or start with a $150 deposit.</p>
     <div class="pb-list">
-      <div class="pb-item"><div class="ic"><svg viewBox="0 0 256 256" fill="currentColor"><path d="M224 48h-64a40 40 0 0 0-32 16 40 40 0 0 0-32-16H32a16 16 0 0 0-16 16v128a16 16 0 0 0 16 16h64a24 24 0 0 1 24 24 8 8 0 0 0 16 0 24 24 0 0 1 24-24h64a16 16 0 0 0 16-16V64a16 16 0 0 0-16-16Zm0 144h-64a39.81 39.81 0 0 0-24 8V88a24 24 0 0 1 24-24h64Z"/></svg></div><div><b>Tax Playbook</b><span>Your personalized playbook with step-by-step instructions, real strategies and worksheets.</span></div></div>
-      <div class="pb-item"><div class="ic"><svg viewBox="0 0 256 256" fill="currentColor"><path d="M230.92 212c-15.23-26.33-38.7-45.21-66.09-54.16a72 72 0 1 0-73.66 0c-27.39 8.94-50.86 27.82-66.09 54.16a8 8 0 1 0 13.85 8c18.84-32.56 52.14-52 89.07-52s70.23 19.44 89.07 52a8 8 0 1 0 13.85-8Z"/></svg></div><div><b>Tax Playbook &amp; Me</b><span>Everything in the playbook, plus one-on-one training with Pete and ongoing support.</span></div></div>
-      <div class="pb-item"><div class="ic"><svg viewBox="0 0 256 256" fill="currentColor"><path d="M239.2 97.29a16 16 0 0 0-13.81-11L166 81.17l-23.28-55.36a15.95 15.95 0 0 0-29.44 0L90.07 81.17l-59.46 5.15a16 16 0 0 0-9.11 28.06l45.11 39.42-13.52 58.54a16 16 0 0 0 23.84 17.34l51-31 51.11 31a16 16 0 0 0 23.84-17.34l-13.51-58.6 45.1-39.36a16 16 0 0 0 4.73-17.09Z"/></svg></div><div><b>Tax Academy Platinum</b><span>The full program, with deeper training and support. Ask Pete for details.</span></div></div>
+      <div class="pb-item"><div class="ic"><svg viewBox="0 0 256 256" fill="currentColor"><path d="M224 48h-64a40 40 0 0 0-32 16 40 40 0 0 0-32-16H32a16 16 0 0 0-16 16v128a16 16 0 0 0 16 16h64a24 24 0 0 1 24 24 8 8 0 0 0 16 0 24 24 0 0 1 24-24h64a16 16 0 0 0 16-16V64a16 16 0 0 0-16-16Zm0 144h-64a39.81 39.81 0 0 0-24 8V88a24 24 0 0 1 24-24h64Z"/></svg></div><div><b>Tax Playbook &middot; $399</b><span>Book and training materials. Learn at your own pace.</span></div></div>
+      <div class="pb-item"><div class="ic"><svg viewBox="0 0 256 256" fill="currentColor"><path d="M230.92 212c-15.23-26.33-38.7-45.21-66.09-54.16a72 72 0 1 0-73.66 0c-27.39 8.94-50.86 27.82-66.09 54.16a8 8 0 1 0 13.85 8c18.84-32.56 52.14-52 89.07-52s70.23 19.44 89.07 52a8 8 0 1 0 13.85-8Z"/></svg></div><div><b>Tax Playbook &amp; Me &middot; $699</b><span>Everything in the Tax Playbook, plus limited personal coaching.</span></div></div>
+      <div class="pb-item"><div class="ic"><svg viewBox="0 0 256 256" fill="currentColor"><path d="M239.2 97.29a16 16 0 0 0-13.81-11L166 81.17l-23.28-55.36a15.95 15.95 0 0 0-29.44 0L90.07 81.17l-59.46 5.15a16 16 0 0 0-9.11 28.06l45.11 39.42-13.52 58.54a16 16 0 0 0 23.84 17.34l51-31 51.11 31a16 16 0 0 0 23.84-17.34l-13.51-58.6 45.1-39.36a16 16 0 0 0 4.73-17.09Z"/></svg></div><div><b>Power Tax Academy VIP &middot; $999</b><span>Unlimited scheduled coaching for 12 months, with priority scheduling.</span></div></div>
     </div>
-    <a class="btn btn-green" href="contact/"><svg viewBox="0 0 256 256" fill="currentColor"><path d="M208 32h-24v-8a8 8 0 0 0-16 0v8H88v-8a8 8 0 0 0-16 0v8H48a16 16 0 0 0-16 16v160a16 16 0 0 0 16 16h160a16 16 0 0 0 16-16V48a16 16 0 0 0-16-16Zm-38.34 85.66-48 48a8 8 0 0 1-11.32 0l-24-24a8 8 0 0 1 11.32-11.32L116 148.69l42.34-42.35a8 8 0 0 1 11.32 11.32ZM48 80V48h24v8a8 8 0 0 0 16 0v-8h80v8a8 8 0 0 0 16 0v-8h24v32Z"/></svg>Book an Academy Call</a>
+    <a class="btn btn-green" href="tax-academy/#packages"><svg viewBox="0 0 256 256" fill="currentColor"><path d="M208 32h-24v-8a8 8 0 0 0-16 0v8H88v-8a8 8 0 0 0-16 0v8H48a16 16 0 0 0-16 16v160a16 16 0 0 0 16 16h160a16 16 0 0 0 16-16V48a16 16 0 0 0-16-16Zm-38.34 85.66-48 48a8 8 0 0 1-11.32 0l-24-24a8 8 0 0 1 11.32-11.32L116 148.69l42.34-42.35a8 8 0 0 1 11.32 11.32ZM48 80V48h24v8a8 8 0 0 0 16 0v-8h80v8a8 8 0 0 0 16 0v-8h24v32Z"/></svg>See the Packages</a>
   </div>
 </div></section>
 

diff --git a/css/site.css b/css/site.css
@@ -643,6 +643,30 @@ p,li,blockquote,.net-cat span{text-wrap:pretty}
 .buy.pp-on .pp-fallback{display:none}
 .buy .pp-fallback{align-self:flex-start}
 .buy .pp-note{font-size:.84rem;color:var(--muted)}
+.pkg-grid{display:grid;grid-template-columns:repeat(3,1fr);gap:22px;margin-top:44px;align-items:stretch}
+.pkg-grid.two{grid-template-columns:repeat(2,1fr);max-width:860px;margin-inline:auto}
+.pkg{position:relative;background:#FBF8F1;border:1px solid var(--line);border-radius:20px;padding:30px 26px;display:flex;flex-direction:column;gap:12px;scroll-margin-top:100px}
+.pkg.feat{border:2px solid var(--gold-2);box-shadow:0 18px 40px -24px rgba(6,46,28,.45)}
+.pkg-flag{position:absolute;top:-13px;left:26px;background:var(--green);color:var(--gold);font-weight:800;font-size:.7rem;letter-spacing:.16em;text-transform:uppercase;padding:6px 12px;border-radius:999px}
+.pkg .ic{width:50px;height:50px;border-radius:14px;background:var(--green);color:var(--gold);display:grid;place-items:center}
+.pkg .ic svg{width:24px;height:24px}
+.pkg h3{font-size:1.75rem}
+.pkg-price{font-family:var(--serif);font-size:2.6rem;font-weight:700;color:var(--green);line-height:1}
+.pkg-price small{font-family:var(--sans,inherit);font-size:1rem;font-weight:700;color:var(--muted);margin-left:4px}
+.pkg-list{list-style:none;display:grid;gap:9px;margin:4px 0 6px;padding:0}
+.pkg-list li{display:grid;grid-template-columns:20px 1fr;gap:10px;align-items:start;color:var(--ink,#1d2a22)}
+.pkg-list li svg{width:20px;height:20px;color:var(--gold-2);margin-top:2px}
+.pkg-list li.no{display:block;color:var(--muted);padding-left:30px;font-size:.95rem}
+.pkg .buy{margin-top:auto}
+.pkg.upg{padding:0;border:0;background:transparent;margin-top:8px}
+.opts{display:grid;gap:8px}
+.opts label{display:grid;grid-template-columns:auto 1fr auto;align-items:center;gap:12px;padding:12px 14px;border:1.5px solid var(--line);border-radius:12px;background:#fff;cursor:pointer;text-align:left}
+.opts label:has(input:checked){border-color:var(--green);box-shadow:inset 0 0 0 1px var(--green)}
+.opts input{width:18px;height:18px;accent-color:var(--green);margin:0}
+.opts b{display:block;color:var(--green);font-size:.98rem}
+.opts small{display:block;color:var(--muted);font-size:.84rem;line-height:1.35}
+.opts em{font-style:normal;font-weight:800;color:var(--green)}
+.prod .pkg-price{font-size:2.2rem}
 .pb-item.has-buy{align-items:start}
 .prod .buy{width:100%;margin-top:auto}
 .prod .ask{font-weight:700;color:var(--green);text-decoration:underline;text-underline-offset:3px;padding:10px 0;margin:-6px 0 -10px}
@@ -652,4 +676,8 @@ p,li,blockquote,.net-cat span{text-wrap:pretty}
   .role .sep{display:block;height:0;overflow:hidden}
   .prod .buy{align-items:center}.prod .buy .pp{margin-inline:auto}.buy .pp-fallback{align-self:stretch}
   .pb-item.has-buy .buy{align-items:stretch}
+  .pkg-grid,.pkg-grid.two{grid-template-columns:1fr;gap:26px;margin-top:34px}
+  .pkg{padding:28px 20px;text-align:left}
+  .pkg .buy .pp{max-width:none}
 }
+@media (min-width:761px) and (max-width:1100px){.pkg-grid{grid-template-columns:1fr;max-width:560px;margin-inline:auto}}

diff --git a/terms/index.html b/terms/index.html
@@ -59,7 +59,7 @@
   <h2>General information only</h2><p>Content on this website is general information. It is not tax, legal, accounting or investment advice for your situation, and reading it does not make you a client. A client relationship starts only when we agree on the work.</p>
   <h2>Who provides each service</h2><p>Coastal Bend Tax &amp; Financial is not a CPA firm. Peter Muniz is a registered tax return preparer with an IRS Preparer Tax Identification Number (PTIN). Services marked &ldquo;coordinated with partners&rdquo; or &ldquo;through strategic partners&rdquo; are provided by independent licensed professionals, such as CPAs, enrolled agents, attorneys and licensed insurance professionals, who are responsible for their own work and terms. We do not sell securities or give investment advice.</p>
   <h2>Marketplace</h2><p>Businesses in the Marketplace are independent. We make introductions; any work, price and warranty is between you and that business.</p>
-  <h2>Products and programs</h2><p>Details, pricing and terms for the Tax Playbook, Tax Playbook &amp; Me and Tax Academy programs are confirmed with you before purchase.</p>
+  <h2>Products and programs</h2><p>Prices and what each Power Tax Academy package and support service includes are listed on the Tax Academy page. Payments are processed by PayPal. A deposit applies toward the package you chose. Questions about a purchase: call <span class="nw">361-288-6140</span> or email <a href="mailto:petermuniz@coastalbendfinancial.com">petermuniz<wbr>@coastalbendfinancial.com</a>.</p>
   <h2>Contact</h2><p>Questions: call <span class="nw">361-288-6140</span> or email <a href="mailto:petermuniz@coastalbendfinancial.com">petermuniz<wbr>@coastalbendfinancial.com</a>.</p>
 </div></section>
 </main>

diff --git a/thanks/index.html b/thanks/index.html
@@ -170,7 +170,7 @@ document.querySelectorAll('.qw').forEach(f => {
 (() => { if (!new URLSearchParams(location.search).has('paid')) return;
   document.getElementById('tk-k').textContent = 'Payment received';
   document.getElementById('tk-h').textContent = 'Thank you. Your order is in.';
-  document.getElementById('tk-p').textContent = 'PayPal will email your receipt. Pete will reach out to get your playbook started. Questions? Call or text 361-288-6140.';
+  document.getElementById('tk-p').textContent = 'PayPal will email your receipt. Pete will reach out to get you started. Questions? Call or text 361-288-6140.';
 })();
 </script>
 </body>
